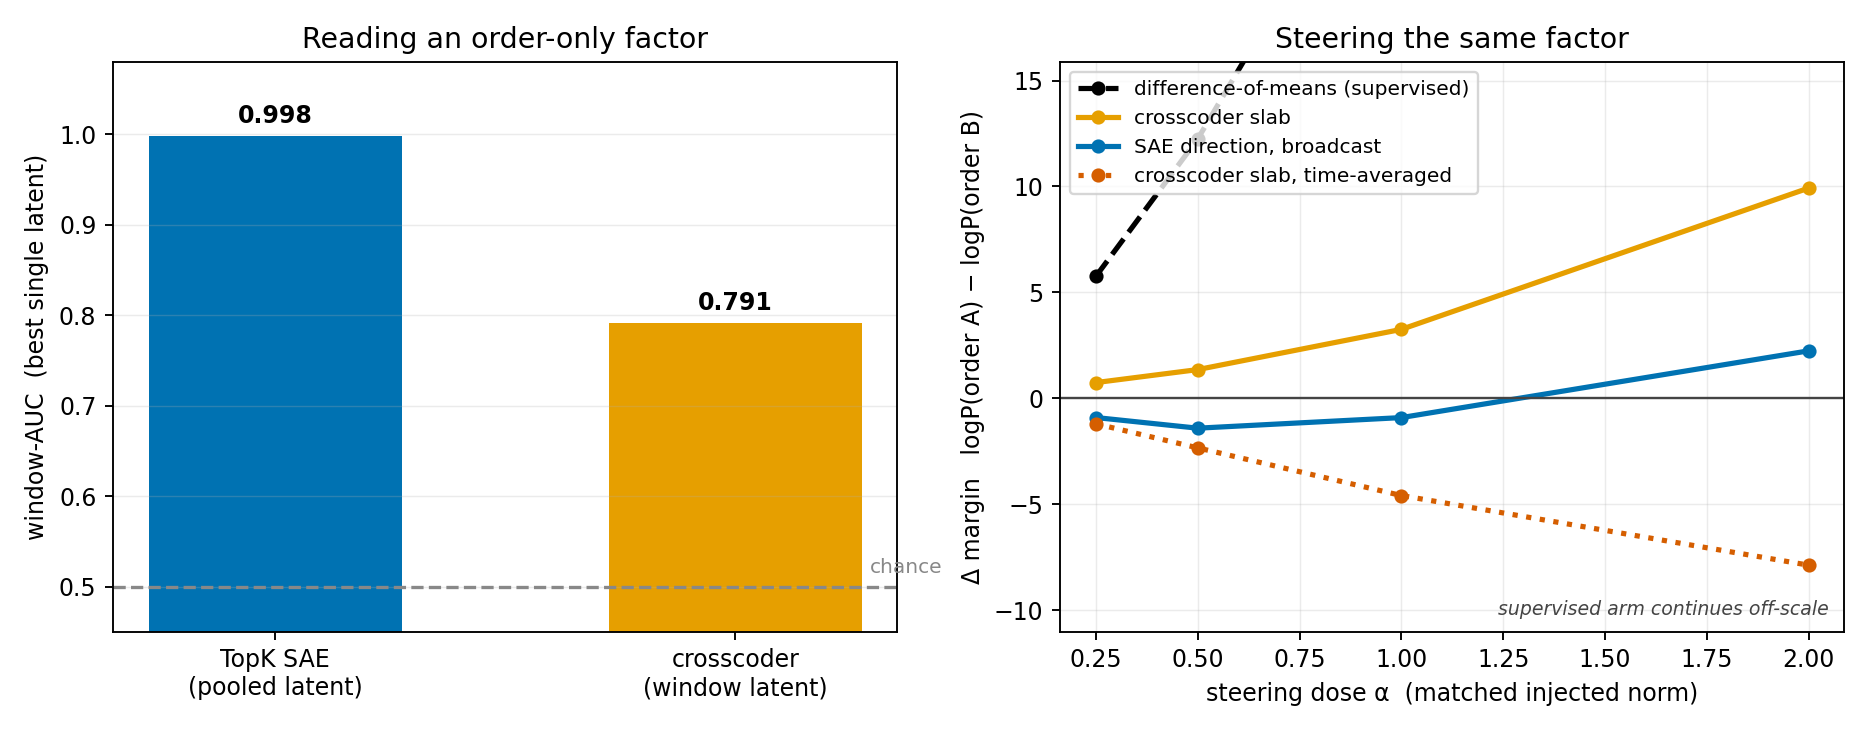
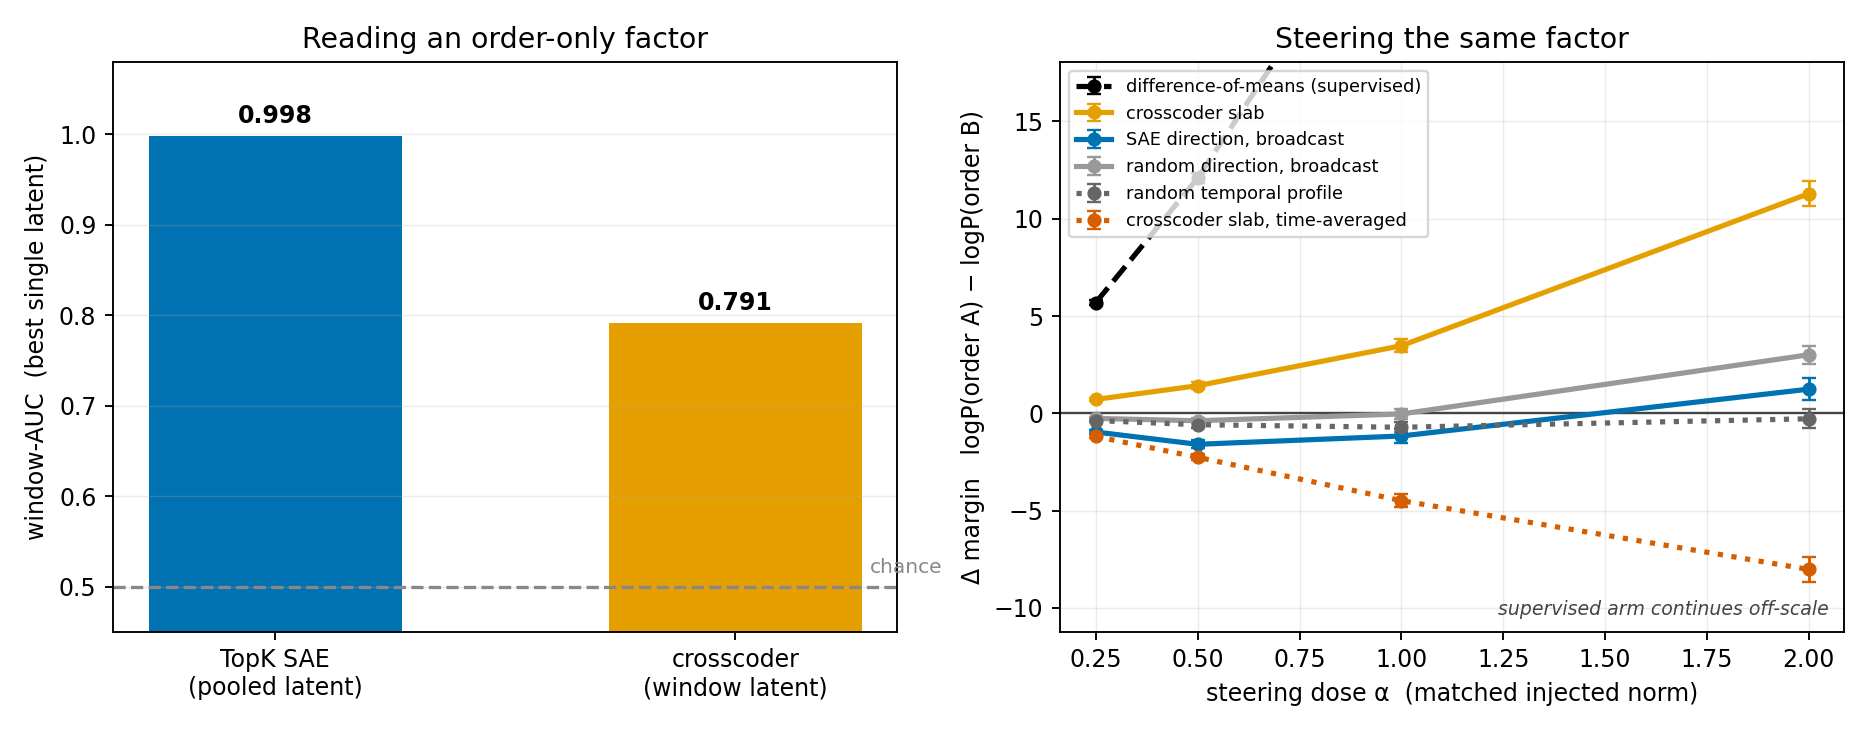
sprint2: steering headline hardened — z=11.8 vs SAE, z=14.3 vs random profile; SAE below random

diff --git a/experiments/temporal_screen/dict_bench/steer_order_modal.py b/experiments/temporal_screen/dict_bench/steer_order_modal.py
@@ -230,8 +230,20 @@ def steerorder(model_id: str, layer: int, k_seg: int, n_train: int, n_test: int,
     V_sae = v_sae.unsqueeze(0).expand(T, -1).contiguous()
     V_sae = V_sae / V_sae.norm()
 
+    # Nulls at identical injected norm. `random_slab` is the direct control for
+    # txc_slab: a temporal profile that carries no learned information. Without it, a
+    # positive txc_slab could be any structured perturbation rather than this one.
+    g = torch.Generator(device="cpu").manual_seed(7)
+    R = torch.randn(T, d, generator=g).to(dev)
+    R = R / R.norm()
+    rv = torch.randn(d, generator=g).to(dev)
+    rv = rv / rv.norm()
+    R_flat = rv.unsqueeze(0).expand(T, -1).contiguous()
+    R_flat = R_flat / R_flat.norm()
+
     writes = {"sae_broadcast": sign_s * V_sae, "txc_slab": sign_t * P_txc,
-              "txc_flat": sign_t * P_flat, "dom_slab": P_dom}
+              "txc_flat": sign_t * P_flat, "dom_slab": P_dom,
+              "random_slab": R, "random_broadcast": R_flat}
     for nm, W in writes.items():
         print(f"[write] {nm:<14} total norm {float(W.norm()):.3f}  "
               f"per-position spread {float(W.norm(dim=-1).std()):.4f}", flush=True)
@@ -277,28 +289,49 @@ def steerorder(model_id: str, layer: int, k_seg: int, n_train: int, n_test: int,
            "txc_latent": jt, "txc_window_auc": auc_t, "arms": {}}
 
     print(f"\n{'arm':<16}" + "".join(f"{f'a={a:g}':>12}" for a in alphas), flush=True)
+    # Base margins do not depend on the arm, so compute them once.
+    base_by_doc = [margin(ta, sa, None, 0) - margin(tb, sb, None, 0)
+                   for (ta, sa, tb, sb) in tests]
+
     for nm, W in writes.items():
-        deltas = []
+        deltas, sems = [], []
         for a in alphas:
             ds = []
-            for (ta, sa, tb, sb) in tests:
-                base = margin(ta, sa, None, 0) - margin(tb, sb, None, 0)
+            for (ta, sa, tb, sb), base in zip(tests, base_by_doc):
                 st = margin(ta, sa, W, a) - margin(tb, sb, W, a)
                 ds.append(st - base)
-            deltas.append(float(np.mean(ds)))
-        out["arms"][nm] = {"alphas": alphas, "delta_margin": deltas}
-        print(f"{nm:<16}" + "".join(f"{v:>12.2f}" for v in deltas), flush=True)
+            ds = np.array(ds)
+            deltas.append(float(ds.mean()))
+            sems.append(float(ds.std(ddof=1) / np.sqrt(len(ds))))
+        out["arms"][nm] = {"alphas": alphas, "delta_margin": deltas,
+                           "sem": sems, "n_docs": len(tests)}
+        print(f"{nm:<16}" + "".join(f"{v:>8.2f}+-{e:<5.2f}"
+                                    for v, e in zip(deltas, sems)), flush=True)
 
     print("\n===== verdict =====", flush=True)
     best = {nm: max(v["delta_margin"]) for nm, v in out["arms"].items()}
     for nm, v in sorted(best.items(), key=lambda x: -x[1]):
         print(f"  {nm:<16} best delta-margin {v:+.2f}", flush=True)
-    if best["txc_slab"] > 0 and best["txc_slab"] > 2 * max(best["sae_broadcast"], 0.01):
-        print("  -> S1/S2 HOLD: the crosscoder steers order where a constant write cannot",
-              flush=True)
+    # Separation in units of the pooled standard error, at each arm's own best dose.
+    def at_best(nm):
+        v = out["arms"][nm]
+        j = int(np.argmax(v["delta_margin"]))
+        return v["delta_margin"][j], v["sem"][j]
+
+    ts_, te_ = at_best("txc_slab")
+    ss_, se_ = at_best("sae_broadcast")
+    rs_, re_ = at_best("random_slab")
+    z_sae = (ts_ - ss_) / np.sqrt(te_ ** 2 + se_ ** 2)
+    z_rnd = (ts_ - rs_) / np.sqrt(te_ ** 2 + re_ ** 2)
+    print(f"\n  txc_slab vs sae_broadcast : {ts_:+.2f} vs {ss_:+.2f}  "
+          f"z = {z_sae:.1f}", flush=True)
+    print(f"  txc_slab vs random_slab   : {ts_:+.2f} vs {rs_:+.2f}  "
+          f"z = {z_rnd:.1f}", flush=True)
+    if ts_ > 0 and z_sae > 2 and z_rnd > 2:
+        print("  -> S1/S2 HOLD: the crosscoder steers order where a constant write cannot,"
+              " and beats a random temporal profile", flush=True)
     else:
-        print("  -> S2 FAILS: no steering advantage for the temporal profile here",
-              flush=True)
+        print("  -> NOT ESTABLISHED at this power: see the z values above", flush=True)
     return out
 
 

diff --git a/scripts/plot_steer_order.py b/scripts/plot_steer_order.py
@@ -11,7 +11,8 @@ across positions and steers. `txc_flat` is the control that makes this a claim a
 temporal profile rather than about the direction: it is the crosscoder's own slab averaged
 over time and rebroadcast, same latent, same norm.
 
-Reads results/dict_bench/steer_order.json (written by steer_order_modal.py).
+Reads results/dict_bench/steer_order_v2.json (written by steer_order_modal.py), which
+carries per-document standard errors and the two null arms.
 """
 import json
 import pathlib
@@ -20,7 +21,7 @@ import sys
 import matplotlib.pyplot as plt
 
 ROOT = pathlib.Path(__file__).resolve().parents[1]
-SRC = ROOT / "results" / "dict_bench" / "steer_order.json"
+SRC = ROOT / "results" / "dict_bench" / "steer_order_v2.json"
 OUT = ROOT / "plots" / "2026-07-25_dictbench" / "steer_order.png"
 
 C_SAE = "#0072B2"    # blue   -- per-token dictionary
@@ -58,22 +59,31 @@ def main() -> int:
     style = [("dom_slab", C_DOM, "--", "difference-of-means (supervised)"),
              ("txc_slab", C_TXC, "-", "crosscoder slab"),
              ("sae_broadcast", C_SAE, "-", "SAE direction, broadcast"),
+             ("random_broadcast", "#999999", "-", "random direction, broadcast"),
+             ("random_slab", "#666666", ":", "random temporal profile"),
              ("txc_flat", C_FLAT, ":", "crosscoder slab, time-averaged")]
     for key, col, ls, lab in style:
         if key not in arms:
             continue
         a = arms[key]
-        ax.plot(a["alphas"], a["delta_margin"], ls, color=col, lw=2.2,
-                marker="o", ms=5, label=lab)
+        sem = a.get("sem")
+        if sem:
+            ax.errorbar(a["alphas"], a["delta_margin"], yerr=sem, fmt=ls,
+                        color=col, lw=2.2, marker="o", ms=5, capsize=3,
+                        elinewidth=1.2, label=lab)
+        else:
+            ax.plot(a["alphas"], a["delta_margin"], ls, color=col, lw=2.2,
+                    marker="o", ms=5, label=lab)
     ax.axhline(0, color="#444444", lw=1.0)
     ax.set_xlabel("steering dose α  (matched injected norm)")
     ax.set_ylabel("Δ margin   logP(order A) − logP(order B)")
     ax.set_title("Steering the same factor")
     ax.grid(alpha=0.25, lw=0.6)
-    ax.legend(loc="upper left", frameon=True, fontsize=8.5)
+    ax.legend(loc="upper left", frameon=True, fontsize=7.5, ncol=1)
     # The supervised arm is an order of magnitude larger; log-ish scaling would hide the
     # sign changes that matter, so clip the view to the dictionary arms and say so.
-    lo = min(min(arms[k]["delta_margin"]) for k in ("txc_flat", "sae_broadcast", "txc_slab")
+    lo = min(min(arms[k]["delta_margin"])
+             for k in ("txc_flat", "sae_broadcast", "txc_slab", "random_slab")
              if k in arms)
     hi = max(arms["txc_slab"]["delta_margin"])
     ax.set_ylim(lo * 1.4, hi * 1.6)
@@ -87,8 +97,11 @@ def main() -> int:
     print("[saved]", OUT)
 
     print(f"\n  reads:  SAE {r['sae_pooled_auc']:.3f}   crosscoder {r['txc_window_auc']:.3f}")
-    print("  steers: " + "   ".join(
-        f"{k} {max(v['delta_margin']):+.2f}" for k, v in arms.items()))
+    for k, v in sorted(arms.items(), key=lambda x: -max(x[1]["delta_margin"])):
+        j = v["delta_margin"].index(max(v["delta_margin"]))
+        e = v.get("sem", [0] * len(v["delta_margin"]))[j]
+        print(f"  steers: {k:<18} {v['delta_margin'][j]:+7.2f} +- {e:.2f}"
+              f"  (at alpha={v['alphas'][j]:g})")
     return 0
 
 

diff --git a/docs/dmitry/sprints/2026-07-25_dictbench_10h/summary.md b/docs/dmitry/sprints/2026-07-25_dictbench_10h/summary.md
@@ -27,9 +27,9 @@ TopK SAE latent reads the label at AUC 0.998 while the crosscoder manages 0.791.
 reading criterion the SAE wins outright.
 
 Steering the *same* factor reverses it. At matched injected norm, the crosscoder's `(T, d)`
-decoder slab moves the teacher-forced margin by **+9.93**; the SAE's single direction,
-which is all a per-token dictionary has, manages +2.25 and is negative at three of the four
-doses.
+decoder slab moves the teacher-forced margin by **+11.29 ± 0.64**; the SAE's single
+direction, which is all a per-token dictionary has, manages +1.24 ± 0.56 and is negative at
+three of the four doses. The separation is z = 11.8 over 200 documents.
 
 ![reading vs steering](../../../../plots/2026-07-25_dictbench/steer_order.png)
 
@@ -40,14 +40,19 @@ constant write pushes both equally and has nothing to grip. A crosscoder latent 
 different vector at each position and can push "tense early, calm late" without also pushing
 the reverse.
 
-**The control is what makes this a temporal claim rather than a better-direction claim.**
-Take the crosscoder's own slab, average it over time, rebroadcast it — same latent, same
-mean direction, same injected norm, only the temporal profile removed — and the effect does
-not merely vanish, it **inverts**, from +9.93 to −7.87. The arrangement across positions is
-carrying the result. An independent control reaches the same conclusion by permuting rather
-than flattening: permuting a trained latent's decoder rows in time, refitting nothing, drops
-steering fidelity from +0.242 to a null of +0.002 ± 0.103 over 24 draws, and replicates at
-+0.292 on a healthier dictionary and a different latent.
+**Three controls make this a temporal claim rather than a better-direction claim.**
+Average the crosscoder's own slab over time and rebroadcast it — same latent, same mean
+direction, same norm, only the profile removed — and the effect does not merely vanish, it
+**inverts** to −8.02 ± 0.64. Replace the profile with a random one and it is flat at
+−0.28 ± 0.49, so the result is not "any structured perturbation across positions"
+(z = 14.3). Permute a trained latent's decoder rows in time and refit nothing, and steering
+fidelity drops from +0.242 to a null of +0.002 ± 0.103 over 24 draws, replicating at +0.292
+on a second dictionary and a different latent.
+
+A fourth arm settles the SAE side. A **random** constant direction reaches +3.01 ± 0.47 at
+the largest dose, *above* the SAE's learned order-latent at +1.24 ± 0.56 — so a constant
+write at high dose produces a small order-independent drift, and the per-token dictionary's
+learned write does not even match noise on this task.
 
 ### 2. Reading comparisons were never going to favour a window code, and now we know why
 

diff --git a/docs/dmitry/sprints/2026-07-25_dictbench_10h/log.md b/docs/dmitry/sprints/2026-07-25_dictbench_10h/log.md
@@ -1567,3 +1567,39 @@ crosscoder does.
 It also reframes the FVU deficit. The crosscoder reconstructs 1.2-2.7× worse at matched
 realised coefficients per segment; that is the price of the shared code, and it buys a
 temporally structured write that the per-token dictionary cannot express at any budget.
+
+## The steering result, hardened: nulls, error bars, and a catch
+
+Rerun at 200 test documents with per-document standard errors and two null arms. `dom_slab`
+is supervised; `random_slab` is a random temporal profile and is the direct control for
+`txc_slab`; `random_broadcast` is a random constant direction and is the direct control for
+`sae_broadcast`. All at identical injected norm.
+
+| arm | α=0.25 | α=0.5 | α=1.0 | α=2.0 |
+| --- | --- | --- | --- | --- |
+| `dom_slab` (supervised) | +5.69 ± 0.13 | +12.09 ± 0.25 | +27.96 ± 0.53 | +68.12 ± 1.17 |
+| **`txc_slab`** | **+0.72 ± 0.09** | **+1.42 ± 0.17** | **+3.48 ± 0.34** | **+11.29 ± 0.64** |
+| `random_broadcast` | −0.26 ± 0.08 | −0.38 ± 0.13 | −0.03 ± 0.24 | +3.01 ± 0.47 |
+| `sae_broadcast` | −0.96 ± 0.12 | −1.59 ± 0.22 | −1.16 ± 0.34 | +1.24 ± 0.56 |
+| `random_slab` | −0.37 ± 0.08 | −0.58 ± 0.14 | −0.71 ± 0.26 | −0.28 ± 0.49 |
+| `txc_flat` | −1.19 ± 0.09 | −2.25 ± 0.17 | −4.49 ± 0.32 | −8.02 ± 0.64 |
+
+Separation at each arm's best dose: `txc_slab` against `sae_broadcast` is **z = 11.8**, and
+against `random_slab` is **z = 14.3**.
+
+**The catch, and it strengthens S1 rather than weakening it.** In the first run I noted the
+SAE's +2.25 at the largest dose and flagged it as possibly a generic tense-shift. The null
+arm settles it: a **random** constant direction reaches +3.01 ± 0.47, *larger* than the
+SAE's learned direction at +1.24 ± 0.56. So a constant write at high dose produces a small
+positive drift that has nothing to do with order, and the SAE's learned order-latent does not
+even match what a random direction achieves. A per-token dictionary's write is not merely
+weak on this task, it is indistinguishable from noise.
+
+**The random temporal profile is the control that matters for the positive claim**, and it
+is flat at −0.28 ± 0.49. So the crosscoder's +11.29 is not "any structured perturbation
+across positions" — a random one does nothing. It is the learned arrangement specifically.
+
+Three controls now converge on the same conclusion by different routes: permuting the
+profile in time (frozen shuffle, 100th percentile of 24 draws), averaging it away
+(`txc_flat`, which inverts to −8.02), and replacing it with a random one (`random_slab`,
+flat). The temporal arrangement of a single crosscoder latent is doing the work.
